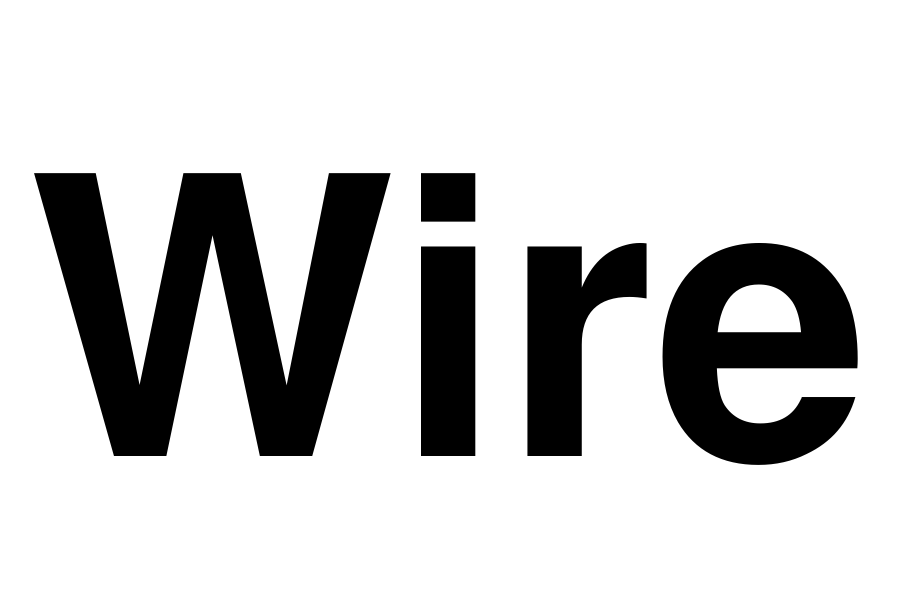
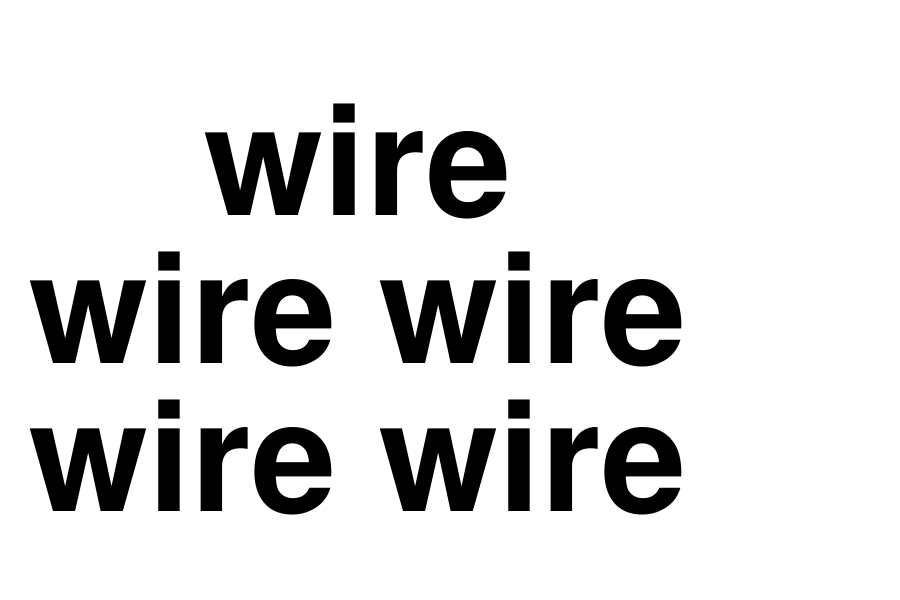
functional but some alignment problems

Changed region(s): [[0.0311, 0.15, 0.9644, 0.87]]

diff --git a/label.py b/label.py
@@ -10,24 +10,42 @@ width = 3*dpi
 height = 2*dpi
 maxwidth = width - 2*margin
 maxheight = height - 2*margin
+bestfontsize = 1
+bestwidth = 1
+bestheight = 1
+bestmessage = ""
 
 img = Image.new('RGB', (width, height), color='white')
 imgDraw = ImageDraw.Draw(img)
 
-message = "Wire"
+message = "wire wire wire wire wire"
 
+words = message.split()
+for seppattern in range(2**(len(words)-1)):
+    testmessage = ""
+    for w, word in enumerate(words):
+        sep = " "
+        if(2**w & seppattern):
+            sep = "\n"
+        testmessage += word + sep
+    testmessage = testmessage.strip()  # get rid of terminal space
+    textWidth = 1
+    textHeight = 1
+    fontsize = 0
+    while textWidth < maxwidth and textHeight < maxheight:
+        fontsize += 1
+        textWidth, textHeight = imgDraw.textsize(testmessage, font=ImageFont.truetype("FreeSansBold.ttf", size=fontsize))
+    print(repr(testmessage), fontsize, end="")
+    if fontsize > bestfontsize:
+        bestmessage = testmessage
+        bestwidth = textWidth
+        bestheight = textHeight
+        bestfontsize = fontsize
+        print(" <--- NEW BEST")
+    else:
+        print()
 
-textWidth = 0
-textHeight = 0
-fontsize = 0
-while textWidth < maxwidth and textHeight < maxheight:
-    fontsize += 1
-    font = ImageFont.truetype("FreeSansBold.ttf", size=fontsize)
-    textWidth, textHeight = imgDraw.textsize(message, font=font)
-print("winner winner chicken dinner", textWidth, textHeight)
-
-
-
-imgDraw.text((width/2, height/2), message, font=ImageFont.truetype("FreeSansBold.ttf", size=fontsize),
-              fill=(0,0,0), align="center", anchor="mm", spacing=-30)
+print("Making label with", repr(bestmessage))
+imgDraw.text((bestwidth/2+margin, bestheight/2+margin), bestmessage, font=ImageFont.truetype("FreeSansBold.ttf",
+              size=bestfontsize), fill=(0,0,0), align="center", anchor="mm", spacing=-30)
 img.save('label.png')
